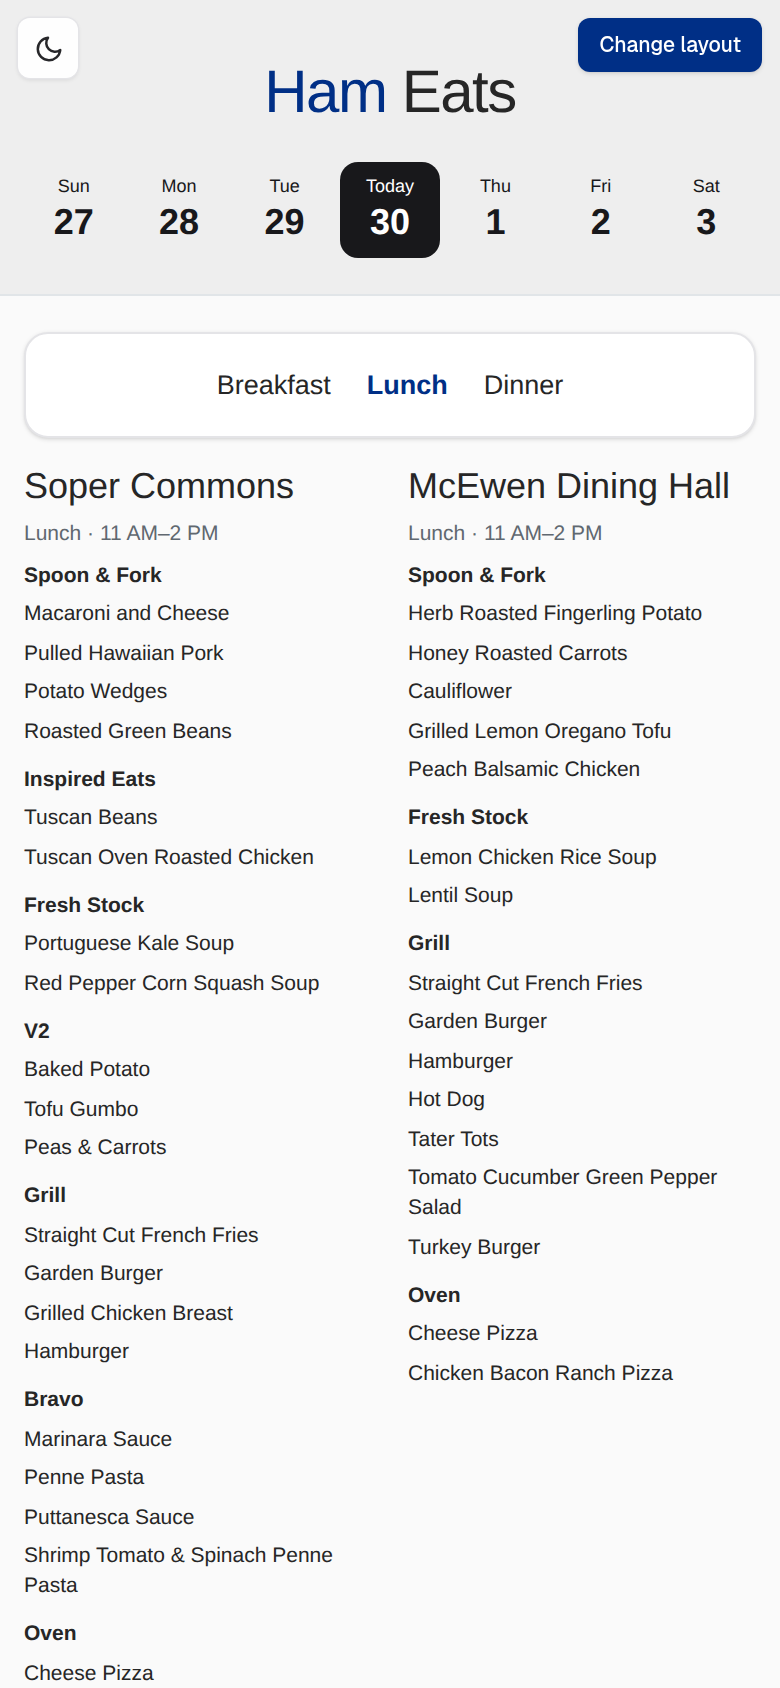
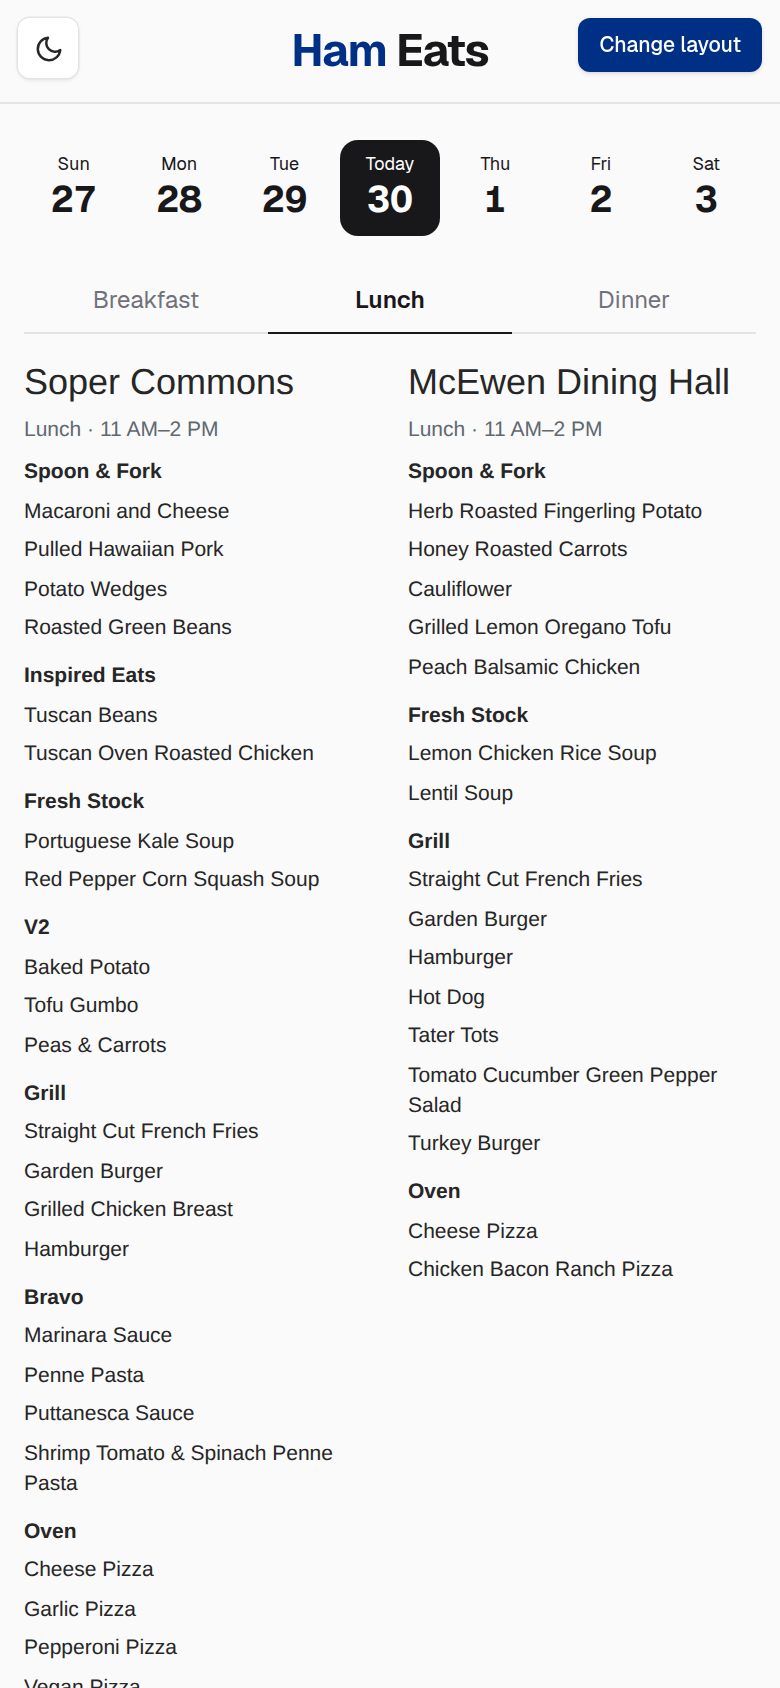
Comparison: use the same plain sticky header as Continental
Same swap as Continental: drop the gray TigerMenus jumbotron for
Classic's plain sticky logo bar, with the day picker and underline meal
tabs stacked below it on the regular page background. The TigerMenus
Helvetica look stays scoped to the hall columns below, where the rest
of that layout's visual identity lives. MealHeader/MealTabsBar are now
unused by both layouts, so the file is removed.

diff --git a/web/components/home/MealFirstHomeLayout.tsx b/web/components/home/MealFirstHomeLayout.tsx
@@ -4,9 +4,9 @@ import { useCallback, useEffect, useMemo, useState } from "react";
 import { HALLS, orderedStations, type Hall } from "@/lib/halls";
 import { compactRange, dowOf, mealNow, statusAt, type CampusTime } from "@/lib/hours";
 import type { HomeLayoutProps } from "@/lib/homeLayouts";
-import { type Meal, type MenuData, type MenuItem } from "@/lib/types";
+import { MEALS, type Meal, type MenuData, type MenuItem } from "@/lib/types";
+import { DayPicker } from "@/components/DayPicker";
 import { ItemSheet } from "@/components/ItemSheet";
-import { MealHeader, MealTabsBar } from "@/components/home/MealHeader";
 import { track } from "@/lib/analytics";
 
 /**
@@ -134,23 +134,49 @@ export function MealFirstHomeLayout({ data, now }: HomeLayoutProps) {
 
 
   return (
-    <div style={{ fontFamily: SITE_FONT }}>
-      <MealHeader
-        dates={dates}
-        selected={date}
-        today={now.iso}
-        onSelectDate={(d) => {
-          setPickedDate(d);
-          track("comparison_day_picked", { date: d });
-        }}
-      />
+    <div>
+      <header className="sticky top-0 z-10 border-b border-zinc-200 bg-zinc-50/90 backdrop-blur dark:border-zinc-800 dark:bg-zinc-950/90">
+        <h1 className="py-4 text-center text-3xl font-bold tracking-tight">
+          <span className="text-accent">Ham</span> Eats
+        </h1>
+      </header>
 
       <main className="mx-auto max-w-5xl px-4 py-6">
         <div className="mx-auto mb-5 max-w-2xl">
-          <MealTabsBar meal={meal} onSelectMeal={setMeal} />
+          <DayPicker
+            dates={dates}
+            selected={date}
+            today={now.iso}
+            onSelect={(d) => {
+              setPickedDate(d);
+              track("comparison_day_picked", { date: d });
+            }}
+          />
         </div>
 
-        <div className="grid grid-cols-2 gap-x-6 gap-y-8 lg:grid-cols-4">
+        <div
+          role="tablist"
+          aria-label="Meal"
+          className="mx-auto mb-5 flex max-w-2xl border-b border-zinc-200 dark:border-zinc-800"
+        >
+          {MEALS.map((m) => (
+            <button
+              key={m}
+              role="tab"
+              aria-selected={m === meal}
+              onClick={() => setMeal(m)}
+              className={`-mb-px flex-1 border-b-2 py-2.5 text-base ${
+                m === meal
+                  ? "border-zinc-900 font-semibold dark:border-white"
+                  : "border-transparent text-zinc-500"
+              }`}
+            >
+              {m}
+            </button>
+          ))}
+        </div>
+
+        <div className="grid grid-cols-2 gap-x-6 gap-y-8 lg:grid-cols-4" style={{ fontFamily: SITE_FONT }}>
           {HALLS.map((h) => (
             <HallColumn key={h.slug} hall={h} meal={meal} date={date} now={now} data={data} onSelect={open} />
           ))}
